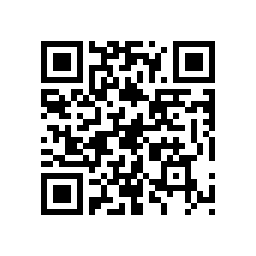
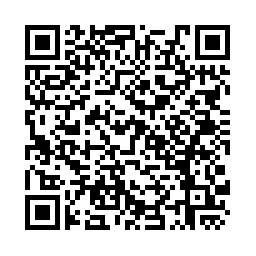
update http view, some changes in logic

diff --git a/QRgenerator/src/main/resources/templates/MainPage.html b/QRgenerator/src/main/resources/templates/MainPage.html
@@ -33,8 +33,15 @@
 <h4>Заполните форму для получения пропуска на территорию ЦТД АО "Мосводоканал"</h4>
 <form action="/getcode" method="post" align="center">
     <br/><br>
-    Наименование организации:
-
+    Наименование организации: <input type="text" name="organization">
+    <br/><br>
+    Фамилия: <input type="text" name="surname"> Имя: <input type="text" name="name"> Отчество: <input type="text" name="patronymic">
+    <br/><br>
+    Паспорт: серия <input type="text" name="serial"> № <input type="text" name="number">
+    <br/><br>
+    Дата посещения: <input type="text" name="date">
+    <br/><br>
+    <button type="submit">Отправить</button>
     <!--
     Фамилия: <input type="text" name="surname">
     <br/><br>

diff --git a/QRgenerator/src/main/java/neskj/QRgenerator/MainController/MainController.java b/QRgenerator/src/main/java/neskj/QRgenerator/MainController/MainController.java
@@ -33,11 +33,15 @@ public class MainController {
     }
 
     @PostMapping("/getcode")
-    public String getData(@RequestParam(required = false) String name,
+    public String getData(@RequestParam(required = false)String organization,
+                          @RequestParam(required = false) String name,
                           @RequestParam(required = false) String patronymic,
-                          @RequestParam(required = false) String surname, Model page){
+                          @RequestParam(required = false) String surname,
+                          @RequestParam(required = false) String serial,
+                          @RequestParam(required = false) String number,
+                          @RequestParam(required = false) String date, Model page){
 
-        BufferedImage image=(BufferedImage) returner.returnQrCode(name,patronymic,surname);
+        BufferedImage image=(BufferedImage) returner.returnQrCode(organization,name,patronymic,surname,serial,number,date);
 
         ByteArrayOutputStream byteStream=new ByteArrayOutputStream();
         try {

diff --git a/QRgenerator/src/main/java/neskj/QRgenerator/QRService/QRGenerator.java b/QRgenerator/src/main/java/neskj/QRgenerator/QRService/QRGenerator.java
@@ -20,9 +20,12 @@ public class QRGenerator implements QRReturner{
     BufferedImage image;
 
     @Override
-    public Object returnQrCode(String name, String patronymic, String surname) {
+    public Object returnQrCode(String organization,String name,String patronymic,String surname,String serial,String number,String date) {
 
-        String text="New visitor: "+surname+" "+name+" "+patronymic;
+        String text="New visitor: "+"\n"+"Organization : "+organization+"\n"+"Full name: "+surname+" "+name+" "+patronymic+"\n"+
+                "Passport: "+serial+" "+number+"\n"+"Date of visit: "+date;
+        System.out.println(text);
+
         int width=256;
         int height=256;
 

diff --git a/QRgenerator/src/main/java/neskj/QRgenerator/QRService/QRCreator.java b/QRgenerator/src/main/java/neskj/QRgenerator/QRService/QRCreator.java
@@ -8,7 +8,7 @@ import org.springframework.stereotype.Component;
 public class QRCreator implements QRReturner {
 
 
-    public String returnQrCode(String name, String patronymic, String surname){
+    public String returnQrCode(String organization,String name,String patronymic,String surname,String serial,String number,String date){
 
         return "Тут будет qr код для строки --->>"+" Имя : "+name+" ; Отчество : "+patronymic+ " ; Фамилия : "+surname+" .";
     }

diff --git a/QRgenerator/src/main/java/neskj/QRgenerator/QRService/QRReturner.java b/QRgenerator/src/main/java/neskj/QRgenerator/QRService/QRReturner.java
@@ -2,5 +2,5 @@ package neskj.QRgenerator.QRService;
 
 public interface QRReturner {
 
-    Object returnQrCode(String name, String patronymic,String surname);
+    Object returnQrCode(String organization,String name,String patronymic,String surname,String serial,String number,String date);
 }
